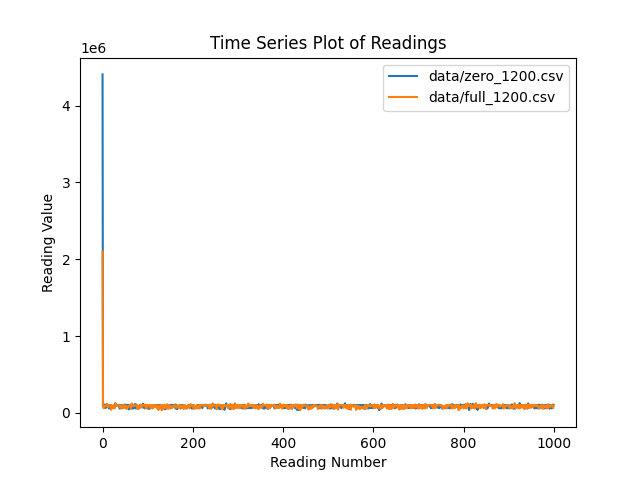
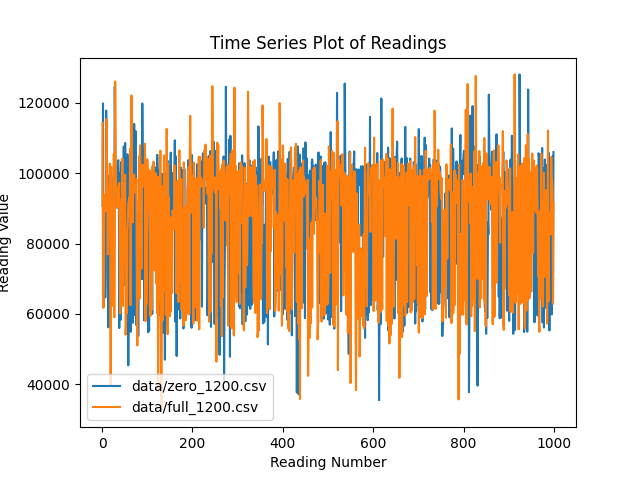
update test.py

diff --git a/aes_key_test/test.py b/aes_key_test/test.py
@@ -61,9 +61,13 @@ if __name__ == "__main__":
     file1 = pd.read_csv(sys.argv[1], header=None)
     file2 = pd.read_csv(sys.argv[2], header=None)
 
+    # filter out the first row
+    file1 = file1.iloc[1:]
+    file2 = file2.iloc[1:]
+
     print("TVLA Test Result: ", tvla(file1.values, file2.values))
     time_series_plot(file1, file2, sys.argv[3])
 
-    # file1 = filter(file1)
-    # file2 = filter(file2)
-    # freq_plot(file1, file2, sys.argv[3])
+    file1 = filter(file1)
+    file2 = filter(file2)
+    freq_plot(file1, file2, sys.argv[3])
